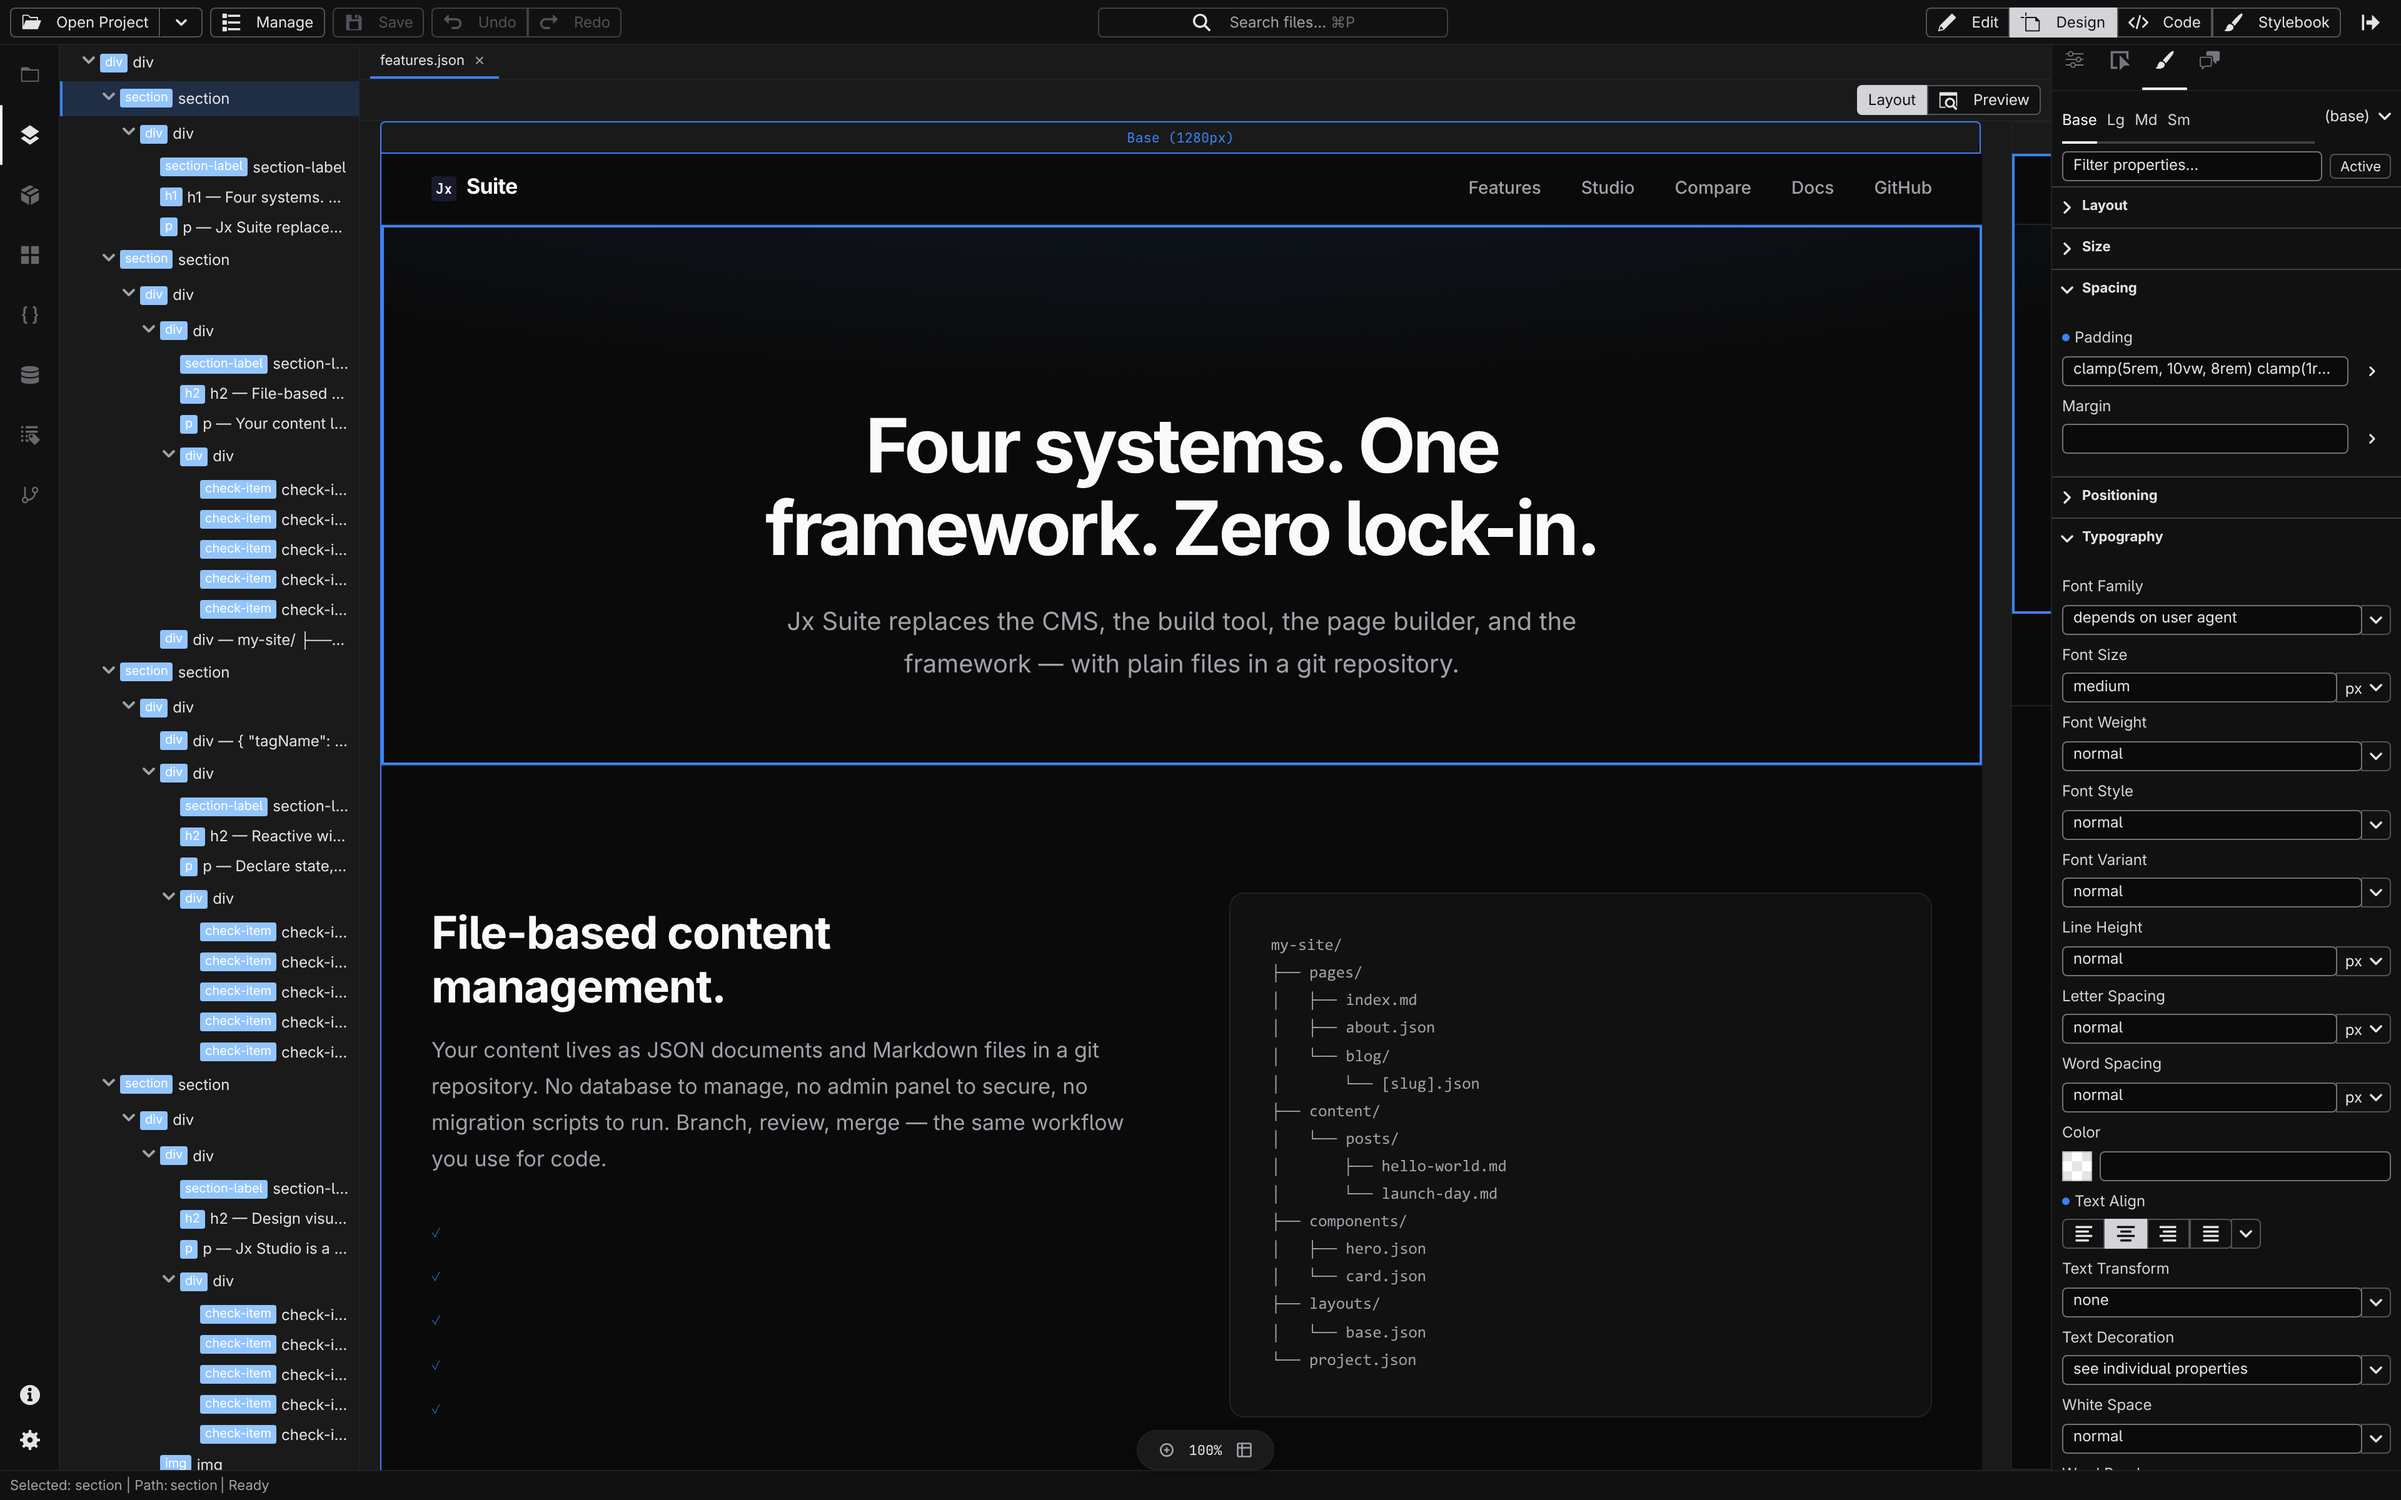
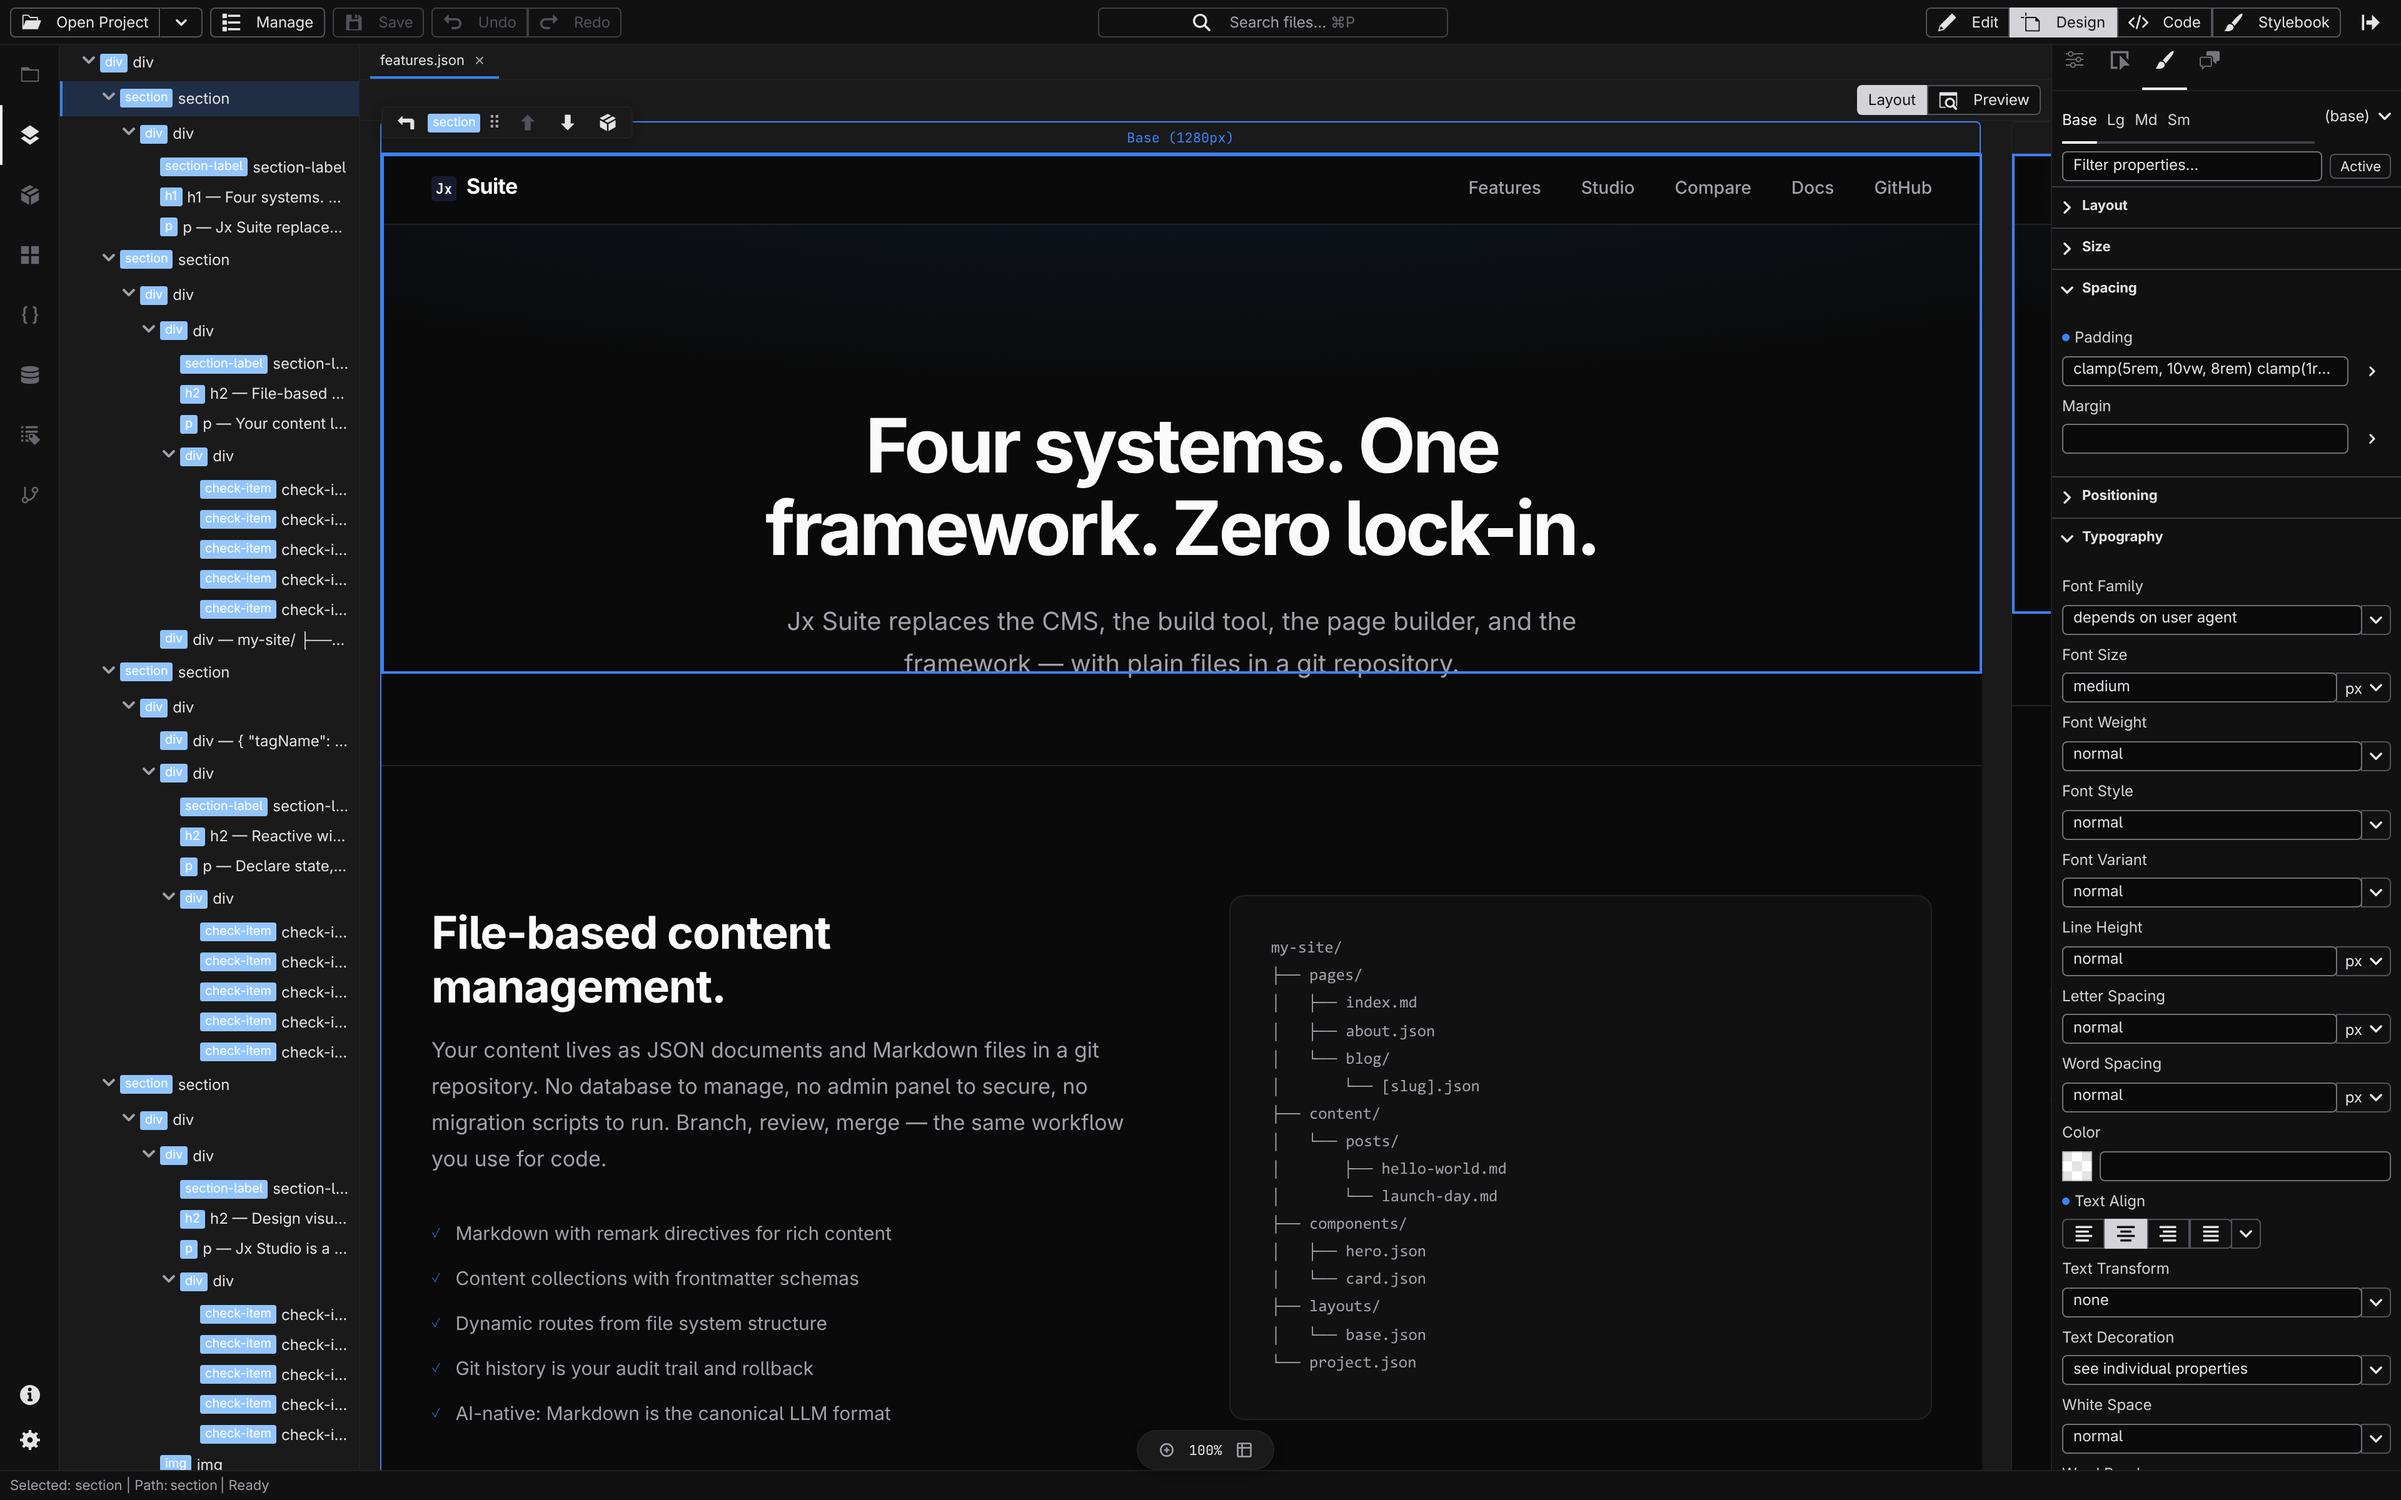
fix(studio): proper handling of relative component references

diff --git a/packages/runtime/tests/custom-elements.test.ts b/packages/runtime/tests/custom-elements.test.ts
@@ -69,6 +69,50 @@ describe("Custom Elements", () => {
     el.remove();
   });
 
+  test("props.* attributes override state defaults and are stripped", async () => {
+    const tag = uniqueTag();
+    await defineElement({
+      children: [{ tagName: "span", textContent: "${state.label}" }],
+      state: { label: "default", other: "untouched" },
+      tagName: tag,
+    });
+
+    const el = document.createElement(tag);
+    el.setAttribute("props.label", "From attribute");
+    el.setAttribute("props.unknown", "ignored");
+    document.body.append(el);
+    await new Promise((r) => {
+      setTimeout(r, 100);
+    });
+
+    expect((el.querySelector("span") as HTMLElement).textContent).toBe("From attribute");
+    // Lifted prop attributes don't leak into the DOM; unknown keys stay untouched
+    expect(el.hasAttribute("props.label")).toBe(false);
+    expect(el.hasAttribute("props.unknown")).toBe(true);
+    expect((el as any).other).toBe("untouched");
+    el.remove();
+  });
+
+  test("explicit $props JS property wins over a props.* attribute", async () => {
+    const tag = uniqueTag();
+    await defineElement({
+      children: [{ tagName: "span", textContent: "${state.label}" }],
+      state: { label: "default" },
+      tagName: tag,
+    });
+
+    const el = document.createElement(tag);
+    el.setAttribute("props.label", "attribute");
+    (el as any).label = "js property";
+    document.body.append(el);
+    await new Promise((r) => {
+      setTimeout(r, 100);
+    });
+
+    expect((el.querySelector("span") as HTMLElement).textContent).toBe("js property");
+    el.remove();
+  });
+
   test("lifecycle hooks (onMount)", async () => {
     const tag = uniqueTag();
     await defineElement({

diff --git a/packages/server/tests/studio-api.test.ts b/packages/server/tests/studio-api.test.ts
@@ -866,6 +866,31 @@ describe("resolve-site", () => {
     expect(data.projectConfig.name).toBe("Test Site");
   });
 
+  test("accepts the project directory itself and targets its project.json", async () => {
+    const dirPath = resolve(FIXTURES, "my-site");
+    const url = new URL(
+      `http://localhost/__studio/resolve-site?path=${encodeURIComponent(dirPath)}`,
+    );
+    const req = new Request(url, { method: "GET" });
+    const res = await callApi(req, url, FIXTURES);
+    const data = await res.json();
+    expect(data.sitePath).toBe(dirPath);
+    expect(data.fileRelPath).toBe("project.json");
+    expect(data.projectConfig.name).toBe("Test Site");
+  });
+
+  test("accepts a subdirectory and walks up to the project root", async () => {
+    const dirPath = resolve(FIXTURES, "my-site/pages");
+    const url = new URL(
+      `http://localhost/__studio/resolve-site?path=${encodeURIComponent(dirPath)}`,
+    );
+    const req = new Request(url, { method: "GET" });
+    const res = await callApi(req, url, FIXTURES);
+    const data = await res.json();
+    expect(data.sitePath).toBe(resolve(FIXTURES, "my-site"));
+    expect(data.fileRelPath).toBe("pages/project.json");
+  });
+
   test("returns null when no project.json found", async () => {
     const filePath = "/tmp/no-project-here/somefile.json";
     const url = new URL(

diff --git a/packages/server/src/studio-api.ts b/packages/server/src/studio-api.ts
@@ -331,9 +331,21 @@ export async function handleStudioApi(
       return Response.json({ error: "Missing path param" }, { status: 400 });
     }
     try {
-      // Walk up from file's directory looking for project.json
-      const absFile = expandTilde(filePath);
-      let dir = dirname(absFile);
+      // Walk up looking for project.json. Accept a directory (e.g. the project root itself, as
+      // Deep links like ?project=/abs/my-site pass) by starting the walk AT the directory and
+      // Treating its project.json as the target file, so callers land on the home page.
+      let absFile = expandTilde(filePath);
+      let dir: string;
+      let isDir = false;
+      try {
+        isDir = statSync(absFile).isDirectory();
+      } catch {}
+      if (isDir) {
+        dir = absFile;
+        absFile = resolve(absFile, "project.json");
+      } else {
+        dir = dirname(absFile);
+      }
       while (dir) {
         const candidate = resolve(dir, "project.json");
         if (existsSync(candidate)) {

diff --git a/scripts/screenshots/lib/shot.ts b/scripts/screenshots/lib/shot.ts
@@ -193,9 +193,7 @@ export async function executeShot(
   });
   await page.emulateMediaFeatures([{ name: "prefers-reduced-motion", value: "reduce" }]);
 
-  // Resolve-site walks UP from dirname(path) looking for project.json, so the deep link must
-  // Point at a file inside the project — its project.json — not the project directory itself.
-  const projectAbs = resolve(ctx.repoRoot, shot.project, "project.json");
+  const projectAbs = resolve(ctx.repoRoot, shot.project);
   const params = new URLSearchParams({
     automation: "1",
     file: shot.file,
